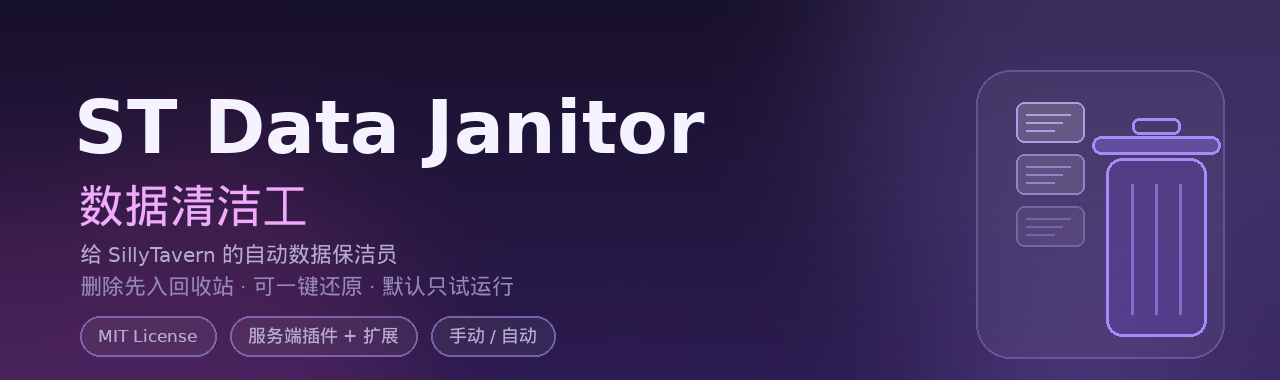
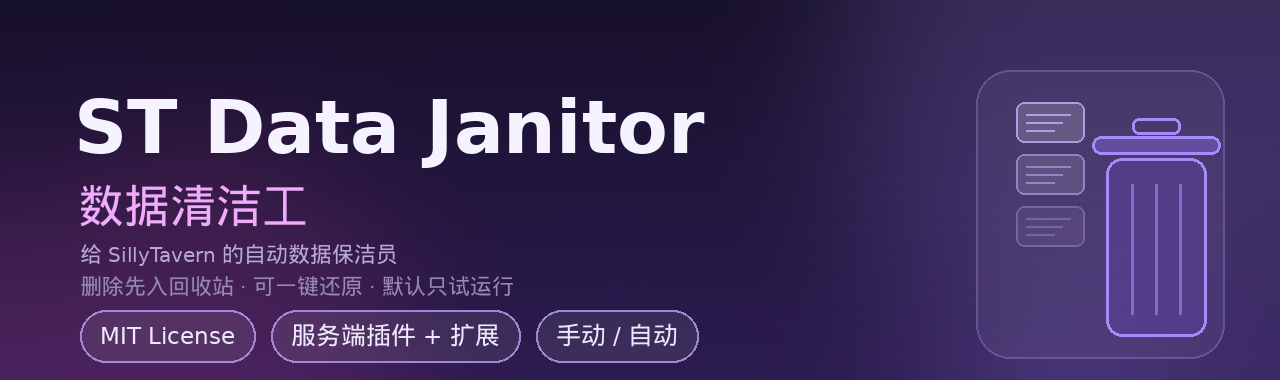
fix(assets): 徽标小字放大到 25px 提高可读性；README 头图加 ?v=2 破缓存

Changed region(s): [[0.0625, 0.8105, 0.5312, 0.9553]]

diff --git a/README.md b/README.md
@@ -1,4 +1,4 @@
-![ST Data Janitor · 数据清洁工](assets/banner.png)
+![ST Data Janitor · 数据清洁工](assets/banner.png?v=2)
 
 # ST Data Janitor · 数据清洁工
 
